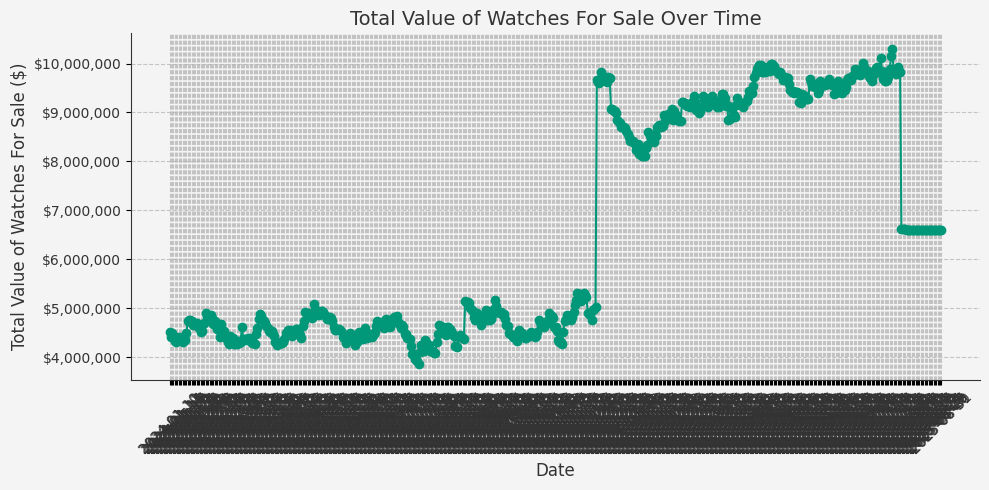
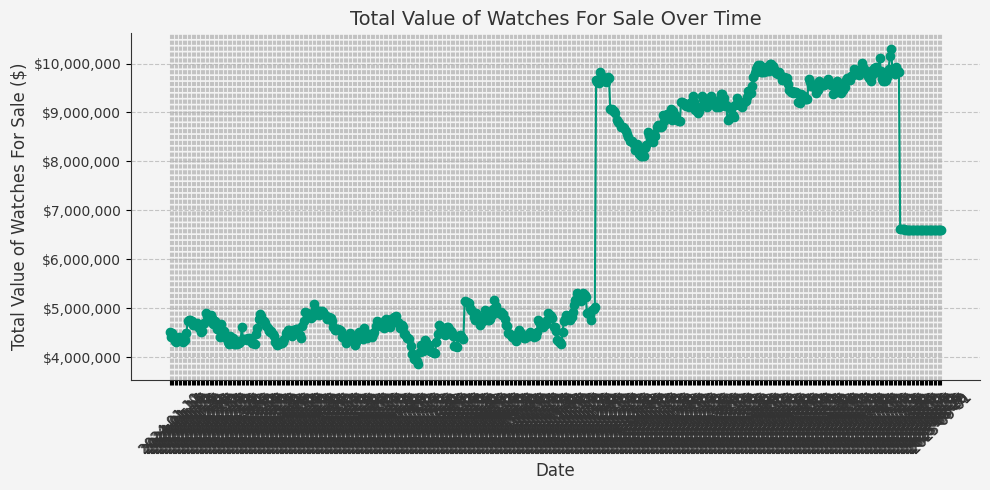
Update docs, portfolio image and portfolio statistics

diff --git a/docs/index.html b/docs/index.html
@@ -54,7 +54,7 @@
     </style>
 </head>
 <body>
-    <h1>Watch Data Report - 2025-08-31</h1>
+    <h1>Watch Data Report - 2025-09-01</h1>
     <div class="stats">
         <h3>Summary Statistics</h3>
         <p>Value of sold Watches: $0.00</p>
